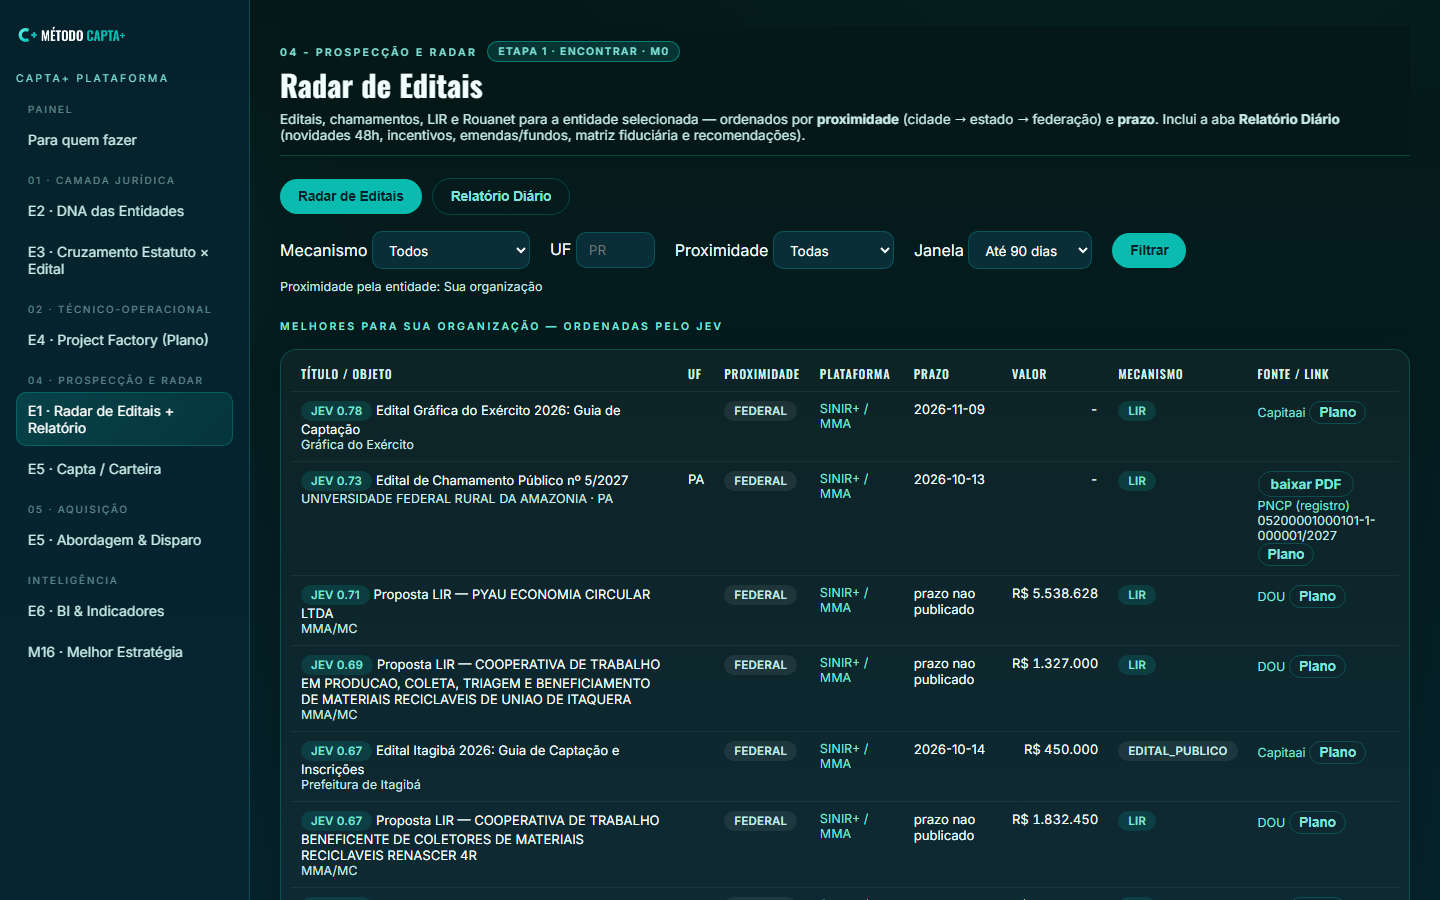
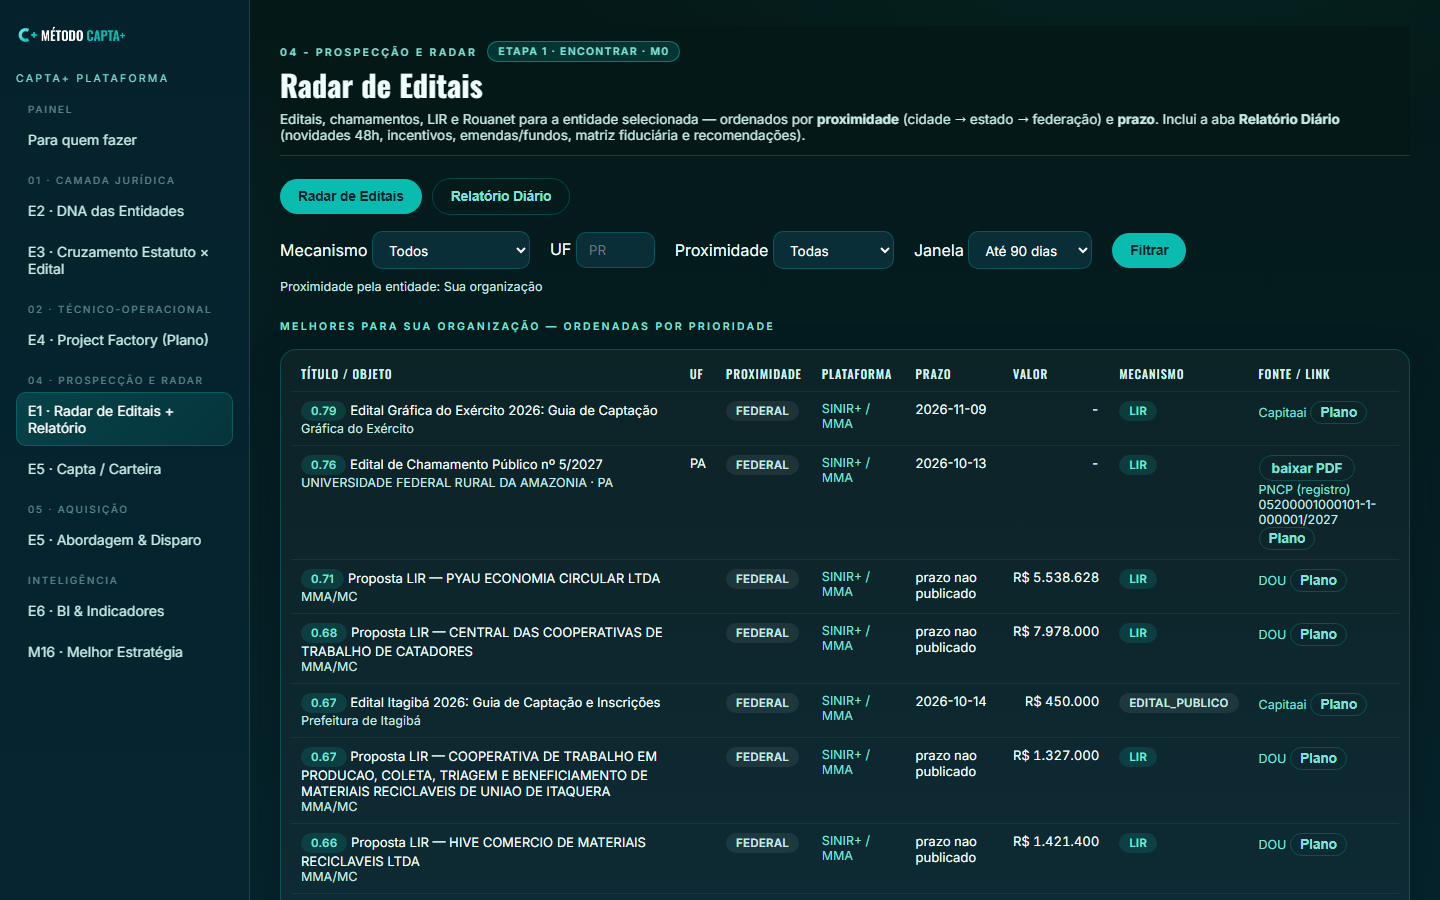
Demonstracao: sem termos internos (IA/JEV) - telas e textos com linguagem de metodo

diff --git a/demonstracao/index.html b/demonstracao/index.html
@@ -7,12 +7,12 @@
 <link href="https://fonts.googleapis.com/css2?family=Oswald:wght@400;500;600;700&family=Inter:wght@400;500;600;700&display=swap" rel="stylesheet">
 <meta name="viewport" content="width=device-width, initial-scale=1">
 <title>Ver demonstração — Capta+ Plataforma | Método Capta+</title>
-<meta name="description" content="Veja a Capta+ Plataforma em operação: o método em 17 módulos (M0–M16), o Radar de Editais ordenado pela JEV e a tela Melhor Estratégia — telas reais do sistema.">
+<meta name="description" content="Veja a Capta+ Plataforma em operação: o método em 17 módulos (M0–M16), o Radar de Editais ordenado por prioridade e a tela Melhor Estratégia — telas reais do sistema.">
 <meta name="robots" content="index, follow, max-snippet:-1, max-image-preview:large">
 <link rel="canonical" href="https://metodocapta.github.io/demonstracao/" />
 <meta property="og:type" content="website">
 <meta property="og:title" content="Ver demonstração — Capta+ Plataforma">
-<meta property="og:description" content="Telas reais do sistema: método em 17 módulos (M0–M16), Radar ordenado pela JEV e Melhor Estratégia.">
+<meta property="og:description" content="Telas reais do sistema: método em 17 módulos (M0–M16), Radar por prioridade e Melhor Estratégia.">
 <meta property="og:url" content="https://metodocapta.github.io/demonstracao/">
 <meta property="og:site_name" content="Método Capta+">
 <meta property="og:image" content="https://metodocapta.github.io/assets/marca/og-metodo-capta.png">
@@ -87,20 +87,20 @@ footer a{color:#7ef0e2;text-decoration:none;margin-right:14px}
 
 <section class="tela">
 <h2>Método &amp; Módulos — as seis etapas e os 17 módulos</h2>
-<p>As seis etapas oficiais, os <b>17 módulos (M0–M16)</b> que as sustentam e as telas de cada uma — incluindo o <b>M16 · Melhor Estratégia</b>. A mesma definição usada internamente, com o Intelligence Core como camada transversal.</p>
-<img src="../assets/demo/metodo.webp" alt="Tela Método e Módulos da Capta+ Plataforma: as seis etapas, os módulos (M0–M16) e o Intelligence Core" loading="lazy" decoding="async">
+<p>As seis etapas oficiais, os <b>17 módulos (M0–M16)</b> que as sustentam e as telas de cada uma — incluindo o <b>M16 · Melhor Estratégia</b>. A mesma definição usada internamente.</p>
+<img src="../assets/demo/metodo.webp" alt="Tela Método e Módulos da Capta+ Plataforma: as seis etapas, os módulos (M0–M16) e o Núcleo de Integridade" loading="lazy" decoding="async">
 </section>
 
 <section class="tela">
 <h2>Radar de Editais — a oportunidade certa primeiro</h2>
-<p>Editais, chamamentos, LIR e Rouanet reunidos e <b>ordenados pela JEV</b>: a proximidade (cidade → estado → federação), o prazo e a aderência definem o que fica no topo. Cada linha já traz a <b>plataforma de submissão</b>, o prazo (<i>prazo não publicado</i> quando a fonte não informa data) e a fonte.</p>
-<img src="../assets/demo/radar.webp" alt="Tela Radar de Editais da Capta+ Plataforma: oportunidades ordenadas pela JEV, com UF, proximidade, plataforma, prazo, valor e mecanismo" loading="lazy" decoding="async">
+<p>Editais, chamamentos, LIR e Rouanet reunidos e <b>ordenados por prioridade</b>: a proximidade (cidade → estado → federação), o prazo e a aderência definem o que fica no topo. Cada linha já traz a <b>plataforma de submissão</b>, o prazo (<i>prazo não publicado</i> quando a fonte não informa data) e a fonte.</p>
+<img src="../assets/demo/radar.webp" alt="Tela Radar de Editais da Capta+ Plataforma: oportunidades ordenadas por prioridade, com UF, proximidade, plataforma, prazo, valor e mecanismo" loading="lazy" decoding="async">
 </section>
 
 <section class="tela">
-<h2>Melhor Estratégia (M16) — a JEV escolhe, o humano decide</h2>
-<p>Cruza a realidade documental da organização com o catálogo de estratégias (estudos). A <b>JEV</b> aponta o <b>Top-3</b>; o código aplica o limiar (≥ 0,70) e os gates; o humano arbitra. A <b>elegibilidade ao mecanismo é gate eliminatório</b> e cada sinal traz a sua fonte.</p>
-<img src="../assets/demo/estrategia.webp" alt="Tela Melhor Estratégia (M16) da Capta+ Plataforma: resumo da realidade documental, sinais com fonte e Top-3 apontado pela JEV" loading="lazy" decoding="async">
+<h2>Melhor Estratégia (M16) — a plataforma ranqueia, o humano decide</h2>
+<p>Cruza a realidade documental da organização com o catálogo de estratégias (estudos) e aponta o <b>Top-3</b>; o código aplica o limiar e os gates, e o humano arbitra. A <b>elegibilidade ao mecanismo é gate eliminatório</b> e cada sinal traz a sua fonte.</p>
+<img src="../assets/demo/estrategia.webp" alt="Tela Melhor Estratégia (M16) da Capta+ Plataforma: resumo da realidade documental, sinais com fonte e Top-3" loading="lazy" decoding="async">
 </section>
 
 <section class="cta">
